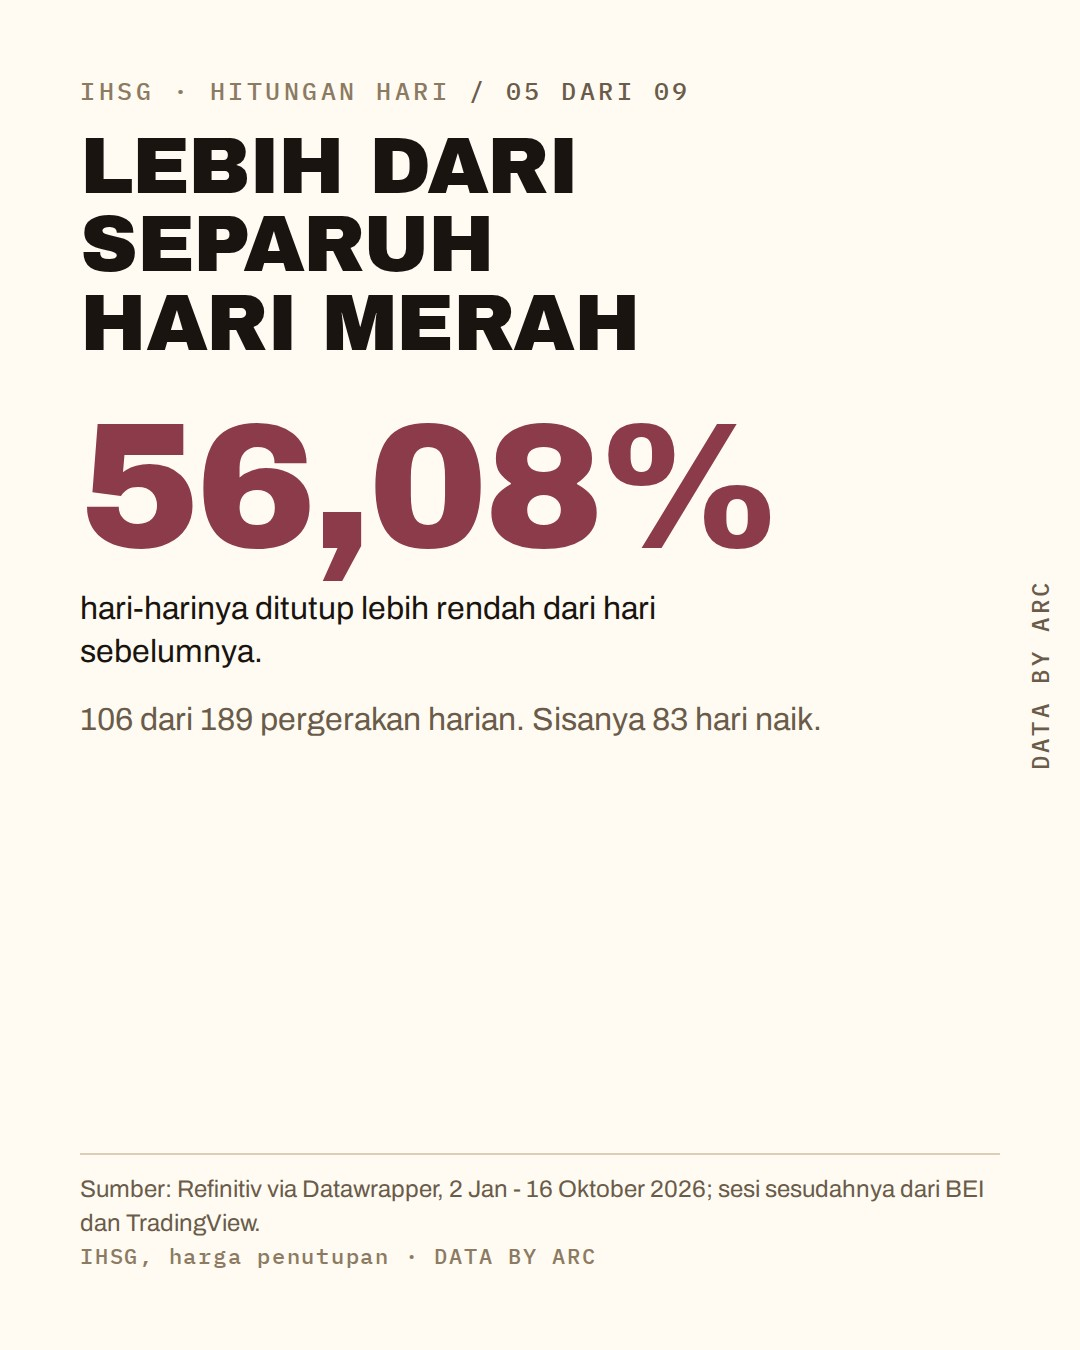
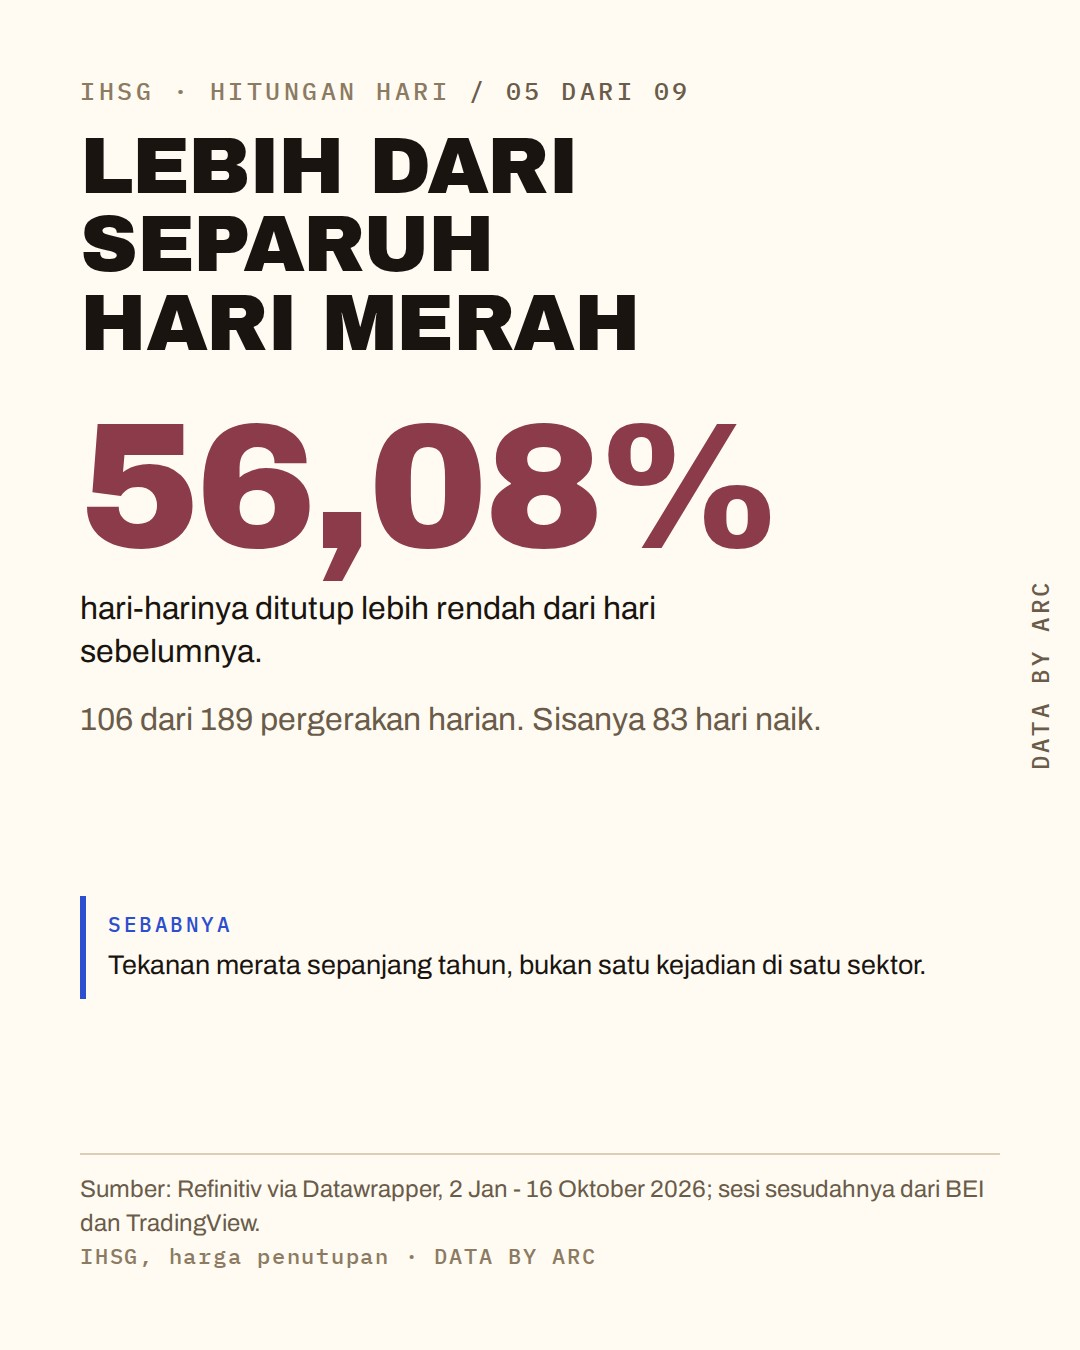
Sisip blok sebabnya di 8 piring + caption

Changed region(s): [[0.0611, 0.6533, 0.4583, 0.7467], [0.4889, 0.6844, 0.7028, 0.7467], [0.7333, 0.6844, 0.8556, 0.7467]]

diff --git a/index.html b/index.html
@@ -160,9 +160,11 @@ Lalu 20 Oktober: +5,65 persen dalam satu hari, dari 4.996,61 ke 5.278,89.
 
 Satu hari naik belum mengubah arah setahun. Untuk balik ke 9.135, indeks masih perlu naik 73,04 persen.
 
-Yang perlu ditanya: apa yang berubah di baliknya?
+Kenapa turun: pemicunya kepercayaan, bukan laba. MSCI membekukan indeks Indonesia 27 Januari, dana asing keluar Rp84,99 triliun sampai 9 Oktober, rupiah tembus 18.000, bank ikut dipotong walau labanya masih tumbuh.
 
-Sumber: Refinitiv via Datawrapper (2 Jan - 16 Oktober 2026), sesi setelahnya TradingView. Bukan rekomendasi investasi.</p>
+Kenapa 20 Oktober naik: yang membeli bukan asing. Asing masih jual bersih Rp2,21 triliun hari itu. Pengangkatnya buyback emiten dan sinyal kebijakan.
+
+Sumber: Refinitiv via Datawrapper (2 Jan - 16 Oktober 2026), sesi setelahnya BEI dan TradingView. Bukan rekomendasi investasi.</p>
   <h2>PISA 2025, satu kelas 30 anak (9 slide)</h2>
   <p class="lede">Seri ketiga: hasil PISA Indonesia dibaca sebagai satu kelas berisi 30 anak.</p>
   <ul>
